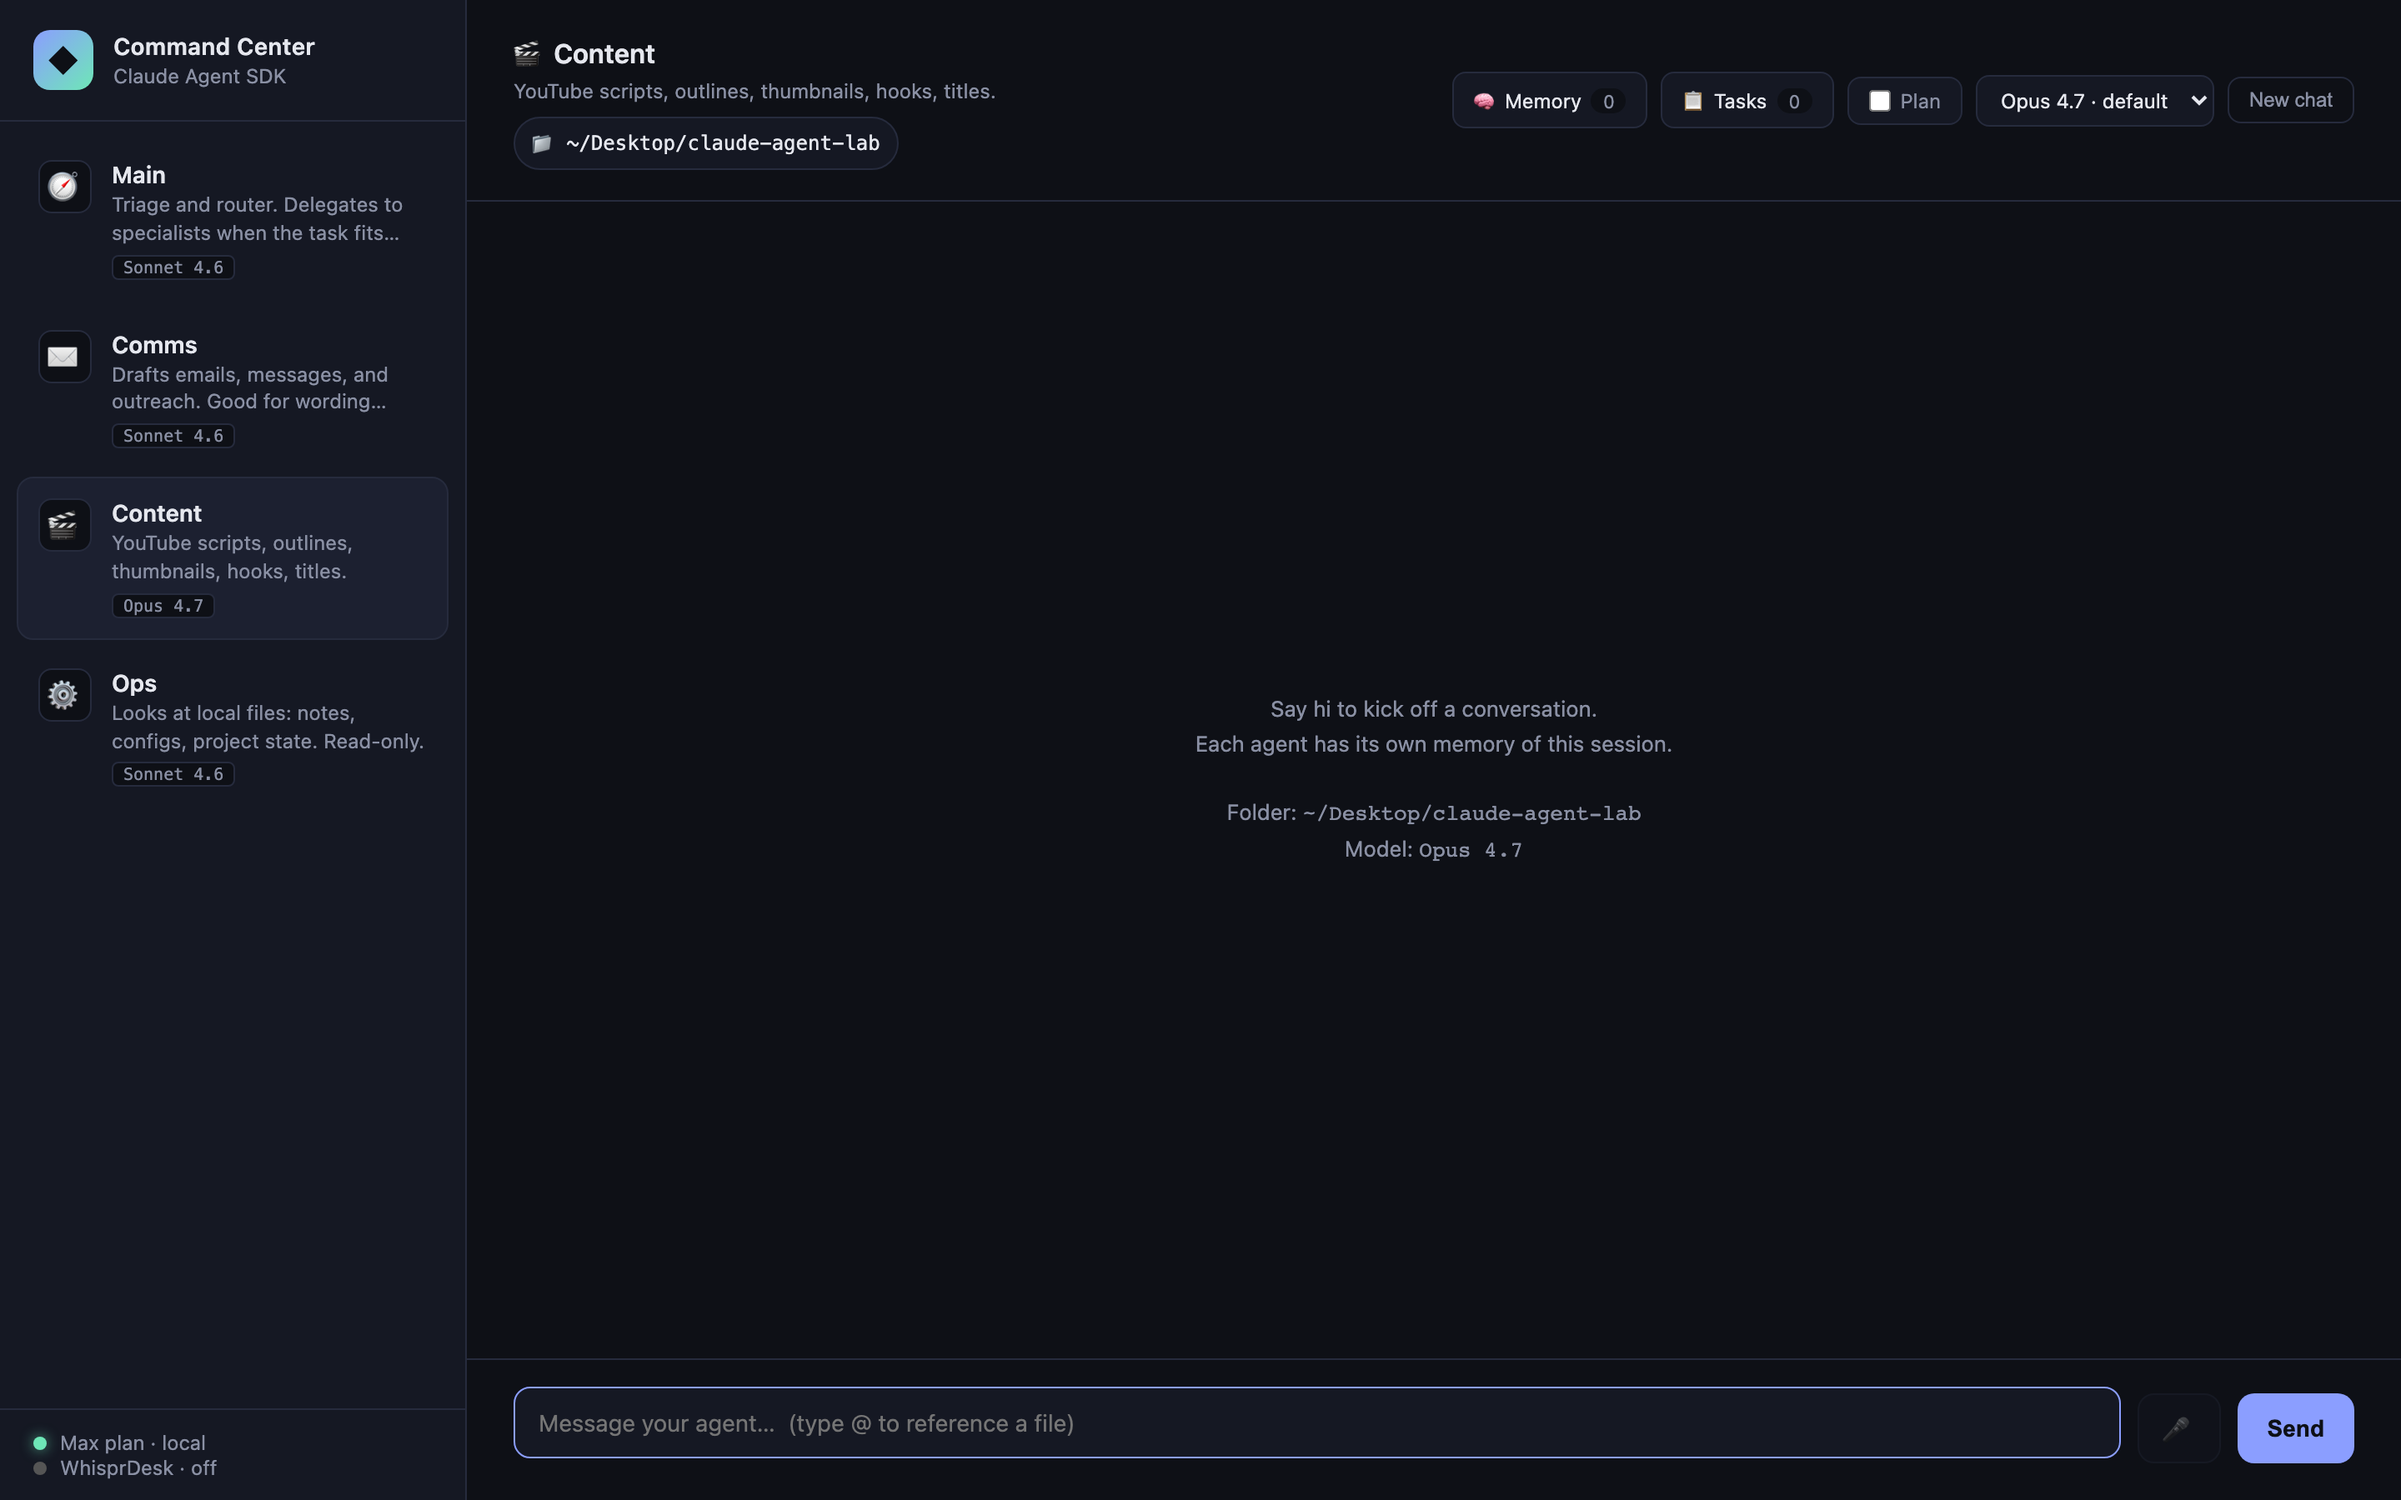
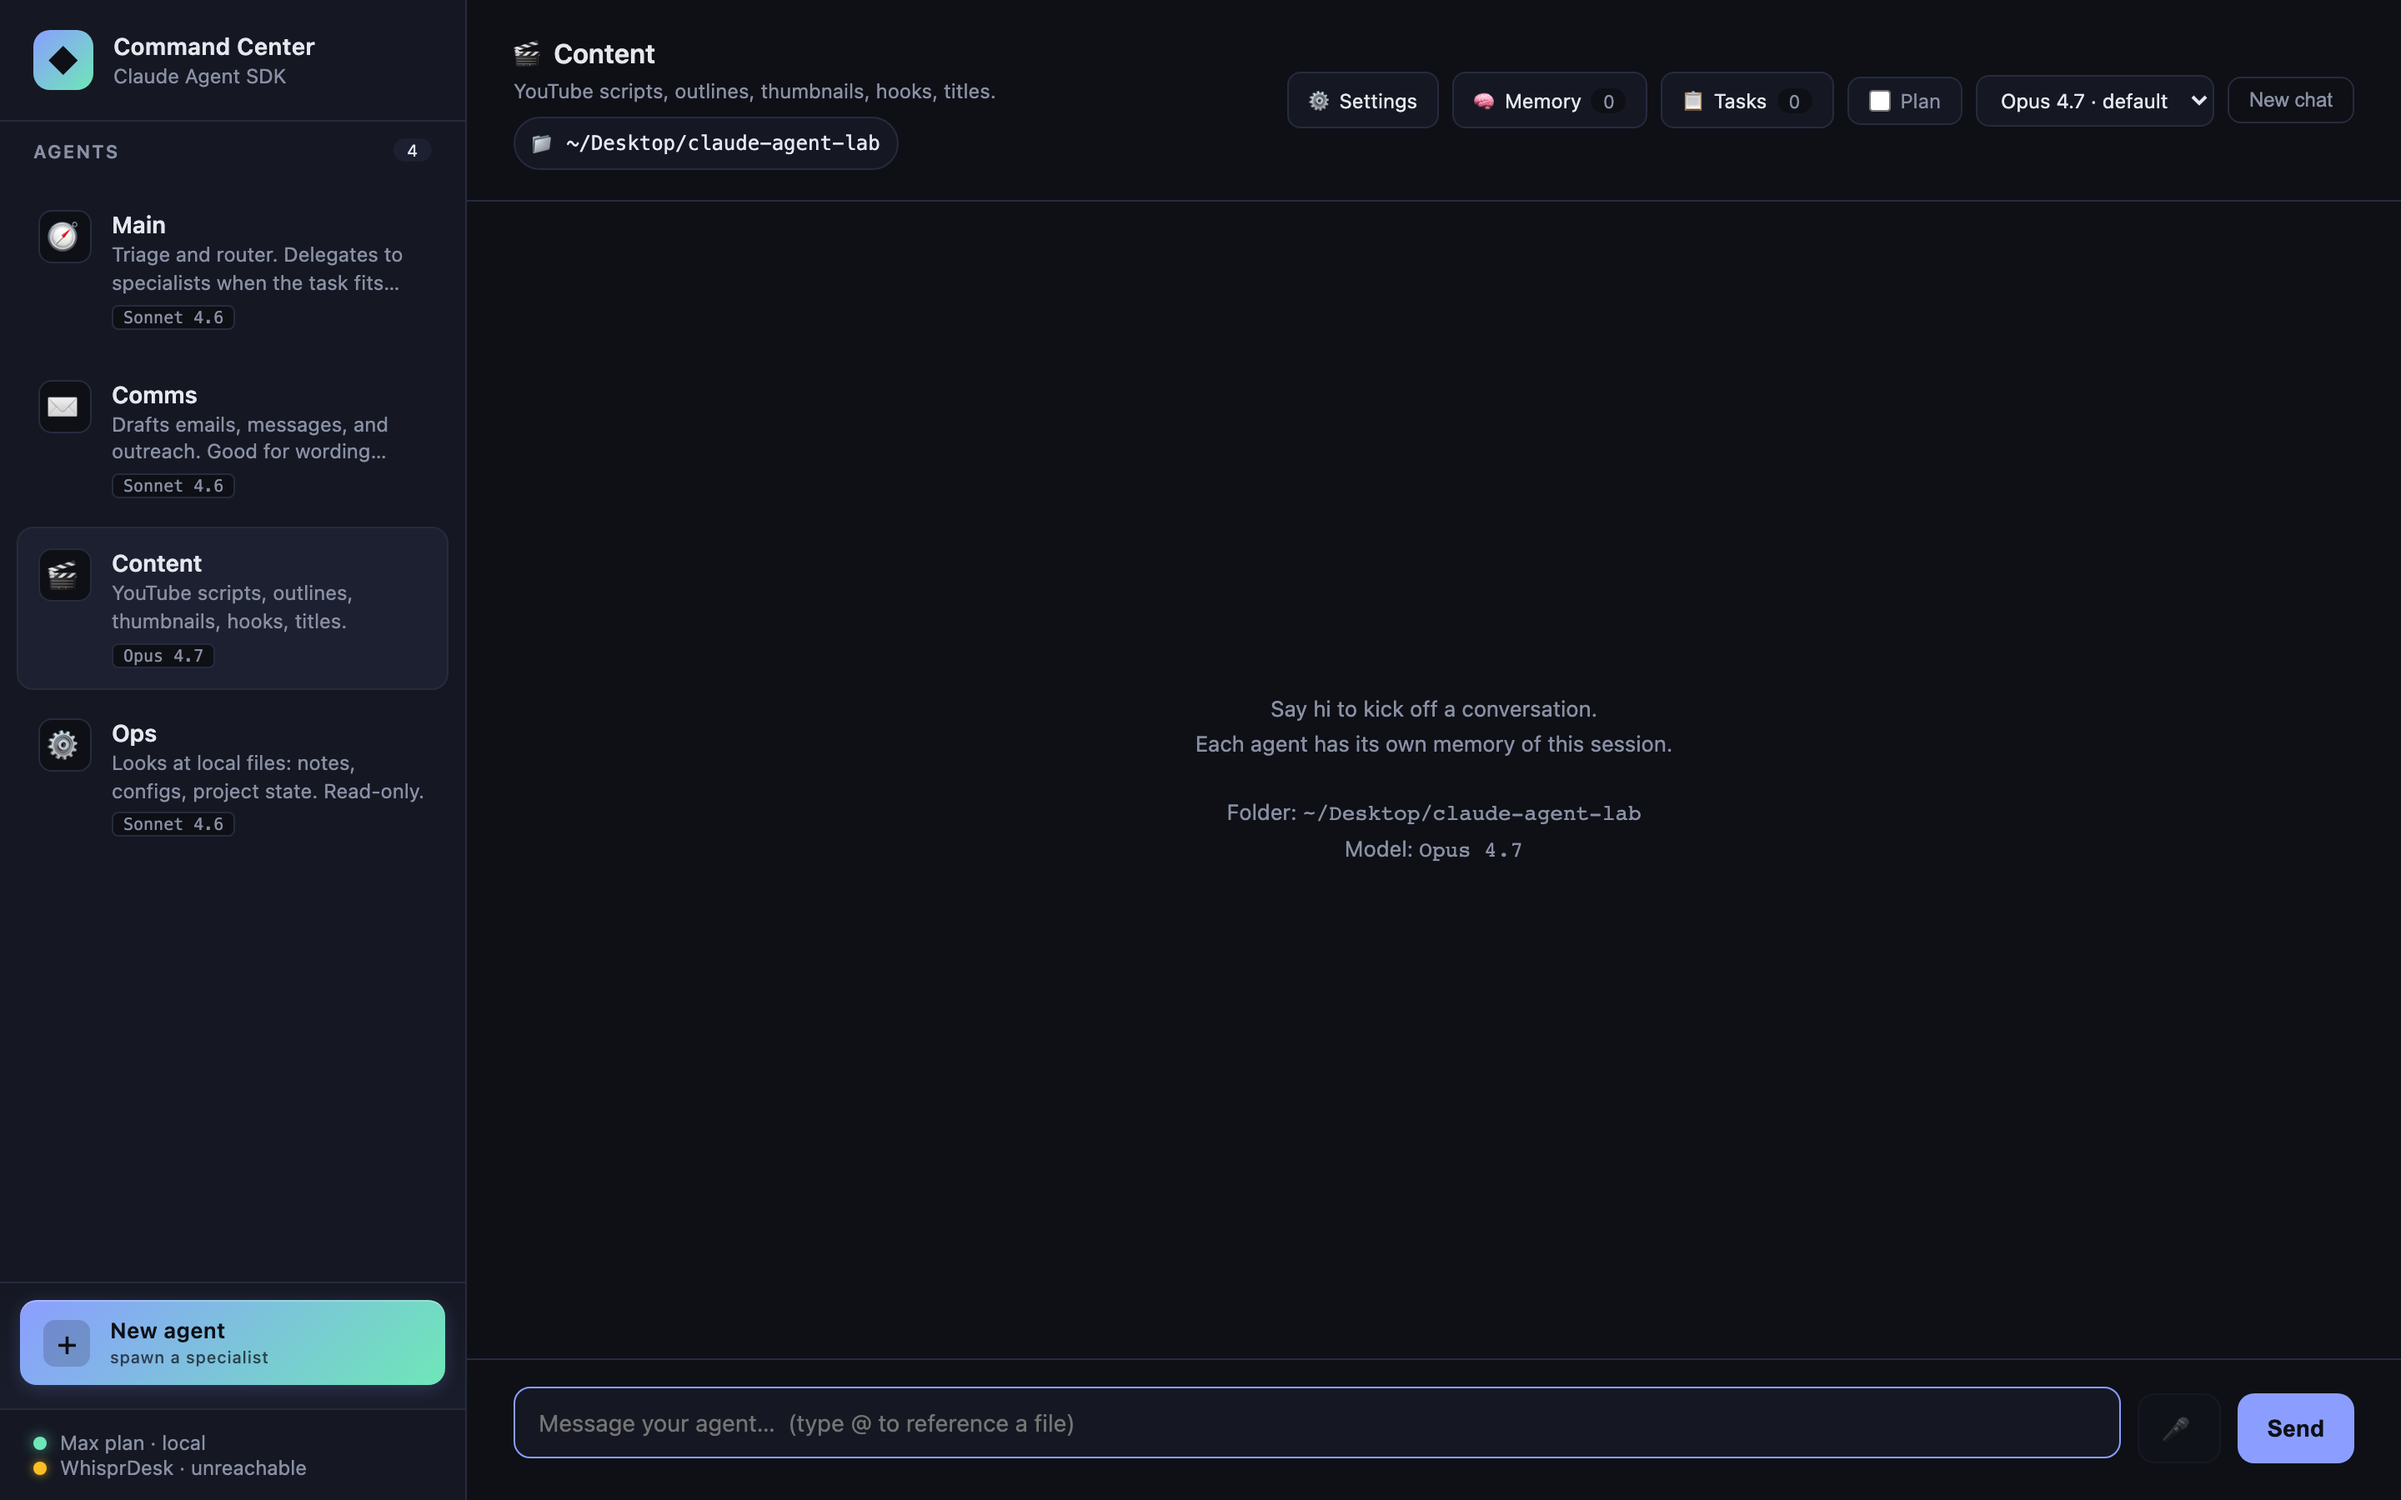
Sidebar: promote "New agent" to a primary action + /think shortcuts
The "+ New agent" button was a muted dashed-border chip at the bottom
of the sidebar, which badly undersold one of the app's headline
capabilities (dynamic multi-agent spawning). The founder's note
upstream: "Everybody talks about agentic. Everybody talks about
multiple agents. And we are hiding this new agent button at the
bottom left."

Fixed:
  - Added a sectioned "AGENTS · <count>" header above the agent list
  - "+ New agent" is now a full-width gradient button (accent purple
    → emerald), raised shadow, two-line content:
        + [icon]  New agent
                  spawn a specialist
  - Hover lifts + brightens; active sinks back down for tactile feel
  - Badge-style agent count in the section header updates live as
    custom agents are created / deleted

Slash shortcuts for model selection (follow-up to the auto-select
conversation — no classifier, no latency; user-in-the-loop):
  /think hard    → switch this agent to Opus 4.7 for this convo
  /think fast    → switch to Haiku 4.5
  /think default → reset to the agent's configured default
  /help          → updated to document the new commands

These are aliases on top of the existing /model <id> command but
read more naturally in chat ("think hard about this" maps directly
to an Opus switch).

Tests: 20/20 smoke pass.

diff --git a/public/style.css b/public/style.css
@@ -109,23 +109,91 @@ body {
   -webkit-box-orient: vertical;
 }
 
+.sidebar-section-header {
+  padding: 10px 20px 6px;
+  display: flex;
+  justify-content: space-between;
+  align-items: center;
+  font-size: 11px;
+  text-transform: uppercase;
+  letter-spacing: 1px;
+  color: var(--muted);
+}
+.sidebar-section-header .section-label {
+  font-weight: 600;
+}
+.sidebar-section-header .section-count {
+  background: var(--panel-2);
+  color: var(--text);
+  padding: 1px 8px;
+  border-radius: 999px;
+  font-size: 10px;
+  letter-spacing: 0.3px;
+  min-width: 18px;
+  text-align: center;
+}
+
 .sidebar-add-row {
-  padding: 4px 10px 10px;
+  padding: 10px 12px 14px;
+  border-top: 1px solid var(--border);
+  background: linear-gradient(180deg, transparent 0%, rgba(139, 158, 255, 0.04) 100%);
 }
 #new-agent-btn {
   width: 100%;
-  background: transparent;
-  color: var(--muted);
-  border: 1px dashed var(--border);
-  border-radius: 8px;
-  padding: 8px 10px;
+  background: linear-gradient(135deg, #8b9eff 0%, #6ee7b7 100%);
+  color: #0e1016;
+  border: 0;
+  border-radius: 10px;
+  padding: 11px 14px;
   cursor: pointer;
-  font-size: 12px;
   font-family: inherit;
+  display: flex;
+  align-items: center;
+  gap: 12px;
+  box-shadow: 0 2px 10px rgba(139, 158, 255, 0.2),
+              inset 0 1px 0 rgba(255, 255, 255, 0.25);
+  transition: transform 0.12s ease, box-shadow 0.12s ease, filter 0.12s ease;
 }
 #new-agent-btn:hover {
-  border-color: var(--accent);
-  color: var(--text);
+  transform: translateY(-1px);
+  box-shadow: 0 4px 16px rgba(139, 158, 255, 0.35),
+              inset 0 1px 0 rgba(255, 255, 255, 0.3);
+  filter: brightness(1.05);
+}
+#new-agent-btn:active {
+  transform: translateY(0);
+  box-shadow: 0 1px 4px rgba(139, 158, 255, 0.2);
+}
+#new-agent-btn .btn-icon {
+  width: 28px;
+  height: 28px;
+  border-radius: 7px;
+  background: rgba(14, 16, 22, 0.18);
+  display: grid;
+  place-items: center;
+  font-size: 20px;
+  font-weight: 400;
+  line-height: 1;
+  flex-shrink: 0;
+}
+#new-agent-btn .btn-main {
+  display: flex;
+  flex-direction: column;
+  align-items: flex-start;
+  gap: 1px;
+  line-height: 1.2;
+}
+#new-agent-btn .btn-label {
+  font-weight: 600;
+  font-size: 13px;
+  letter-spacing: 0.2px;
+}
+#new-agent-btn .btn-hint {
+  font-size: 10px;
+  opacity: 0.72;
+  font-weight: 500;
+  letter-spacing: 0.3px;
+  text-transform: lowercase;
 }
 
 .agent-item .agent-actions {

diff --git a/public/app.js b/public/app.js
@@ -93,6 +93,8 @@ async function loadCwd() {
 
 function renderAgents() {
   agentListEl.innerHTML = "";
+  const countEl = document.getElementById("agent-count");
+  if (countEl) countEl.textContent = state.agents.length;
   for (const agent of state.agents) {
     const el = document.createElement("div");
     el.className =
@@ -1012,10 +1014,38 @@ function handleSlashCommand(text) {
         "- `/clear` — start a new conversation with this agent",
         "- `/model <id>` — switch model (opus, sonnet, haiku)",
         "- `/model` — show the current model + options",
+        "- `/think hard` — switch this agent to Opus (more careful thinking)",
+        "- `/think fast` — switch this agent to Haiku (snappy, cheap)",
+        "- `/think default` — reset to this agent's configured model",
         "- `/agents` — list all agents and their purpose",
         "- `/plan on|off` — toggle plan mode for this agent",
         "- `/help` — this message",
       ].join("\n"),
+    );
+    return true;
+  }
+
+  if (cmd === "think") {
+    const agent = state.agents.find((a) => a.id === agentId);
+    const mapping = {
+      hard: { id: "claude-opus-4-7", label: "Opus 4.7" },
+      fast: { id: "claude-haiku-4-5", label: "Haiku 4.5" },
+      default: { id: agent?.defaultModel, label: null },
+    };
+    const key = arg.toLowerCase();
+    if (!mapping[key]) {
+      say("Use `/think hard` (Opus), `/think fast` (Haiku), or `/think default` (agent's configured model).");
+      return true;
+    }
+    const target = mapping[key];
+    if (!target.id) {
+      say("⚠ Couldn't resolve the default model for this agent.");
+      return true;
+    }
+    changeAgentModel(target.id);
+    const niceName = target.label ?? prettyModel(target.id);
+    say(
+      `**${agent?.name}** will now use \`${niceName}\` for this conversation. Use \`/think default\` to reset.`,
     );
     return true;
   }

diff --git a/public/index.html b/public/index.html
@@ -19,9 +19,19 @@
           <div class="brand-sub">Claude Agent SDK</div>
         </div>
       </header>
+      <div class="sidebar-section-header">
+        <span class="section-label">Agents</span>
+        <span class="section-count" id="agent-count">0</span>
+      </div>
       <nav id="agent-list"></nav>
       <div class="sidebar-add-row">
-        <button id="new-agent-btn" type="button" title="Create a custom agent">+ New agent</button>
+        <button id="new-agent-btn" type="button" title="Spawn a new specialist agent">
+          <span class="btn-icon">+</span>
+          <span class="btn-main">
+            <span class="btn-label">New agent</span>
+            <span class="btn-hint">spawn a specialist</span>
+          </span>
+        </button>
       </div>
       <footer class="sidebar-footer">
         <div class="footer-row">
